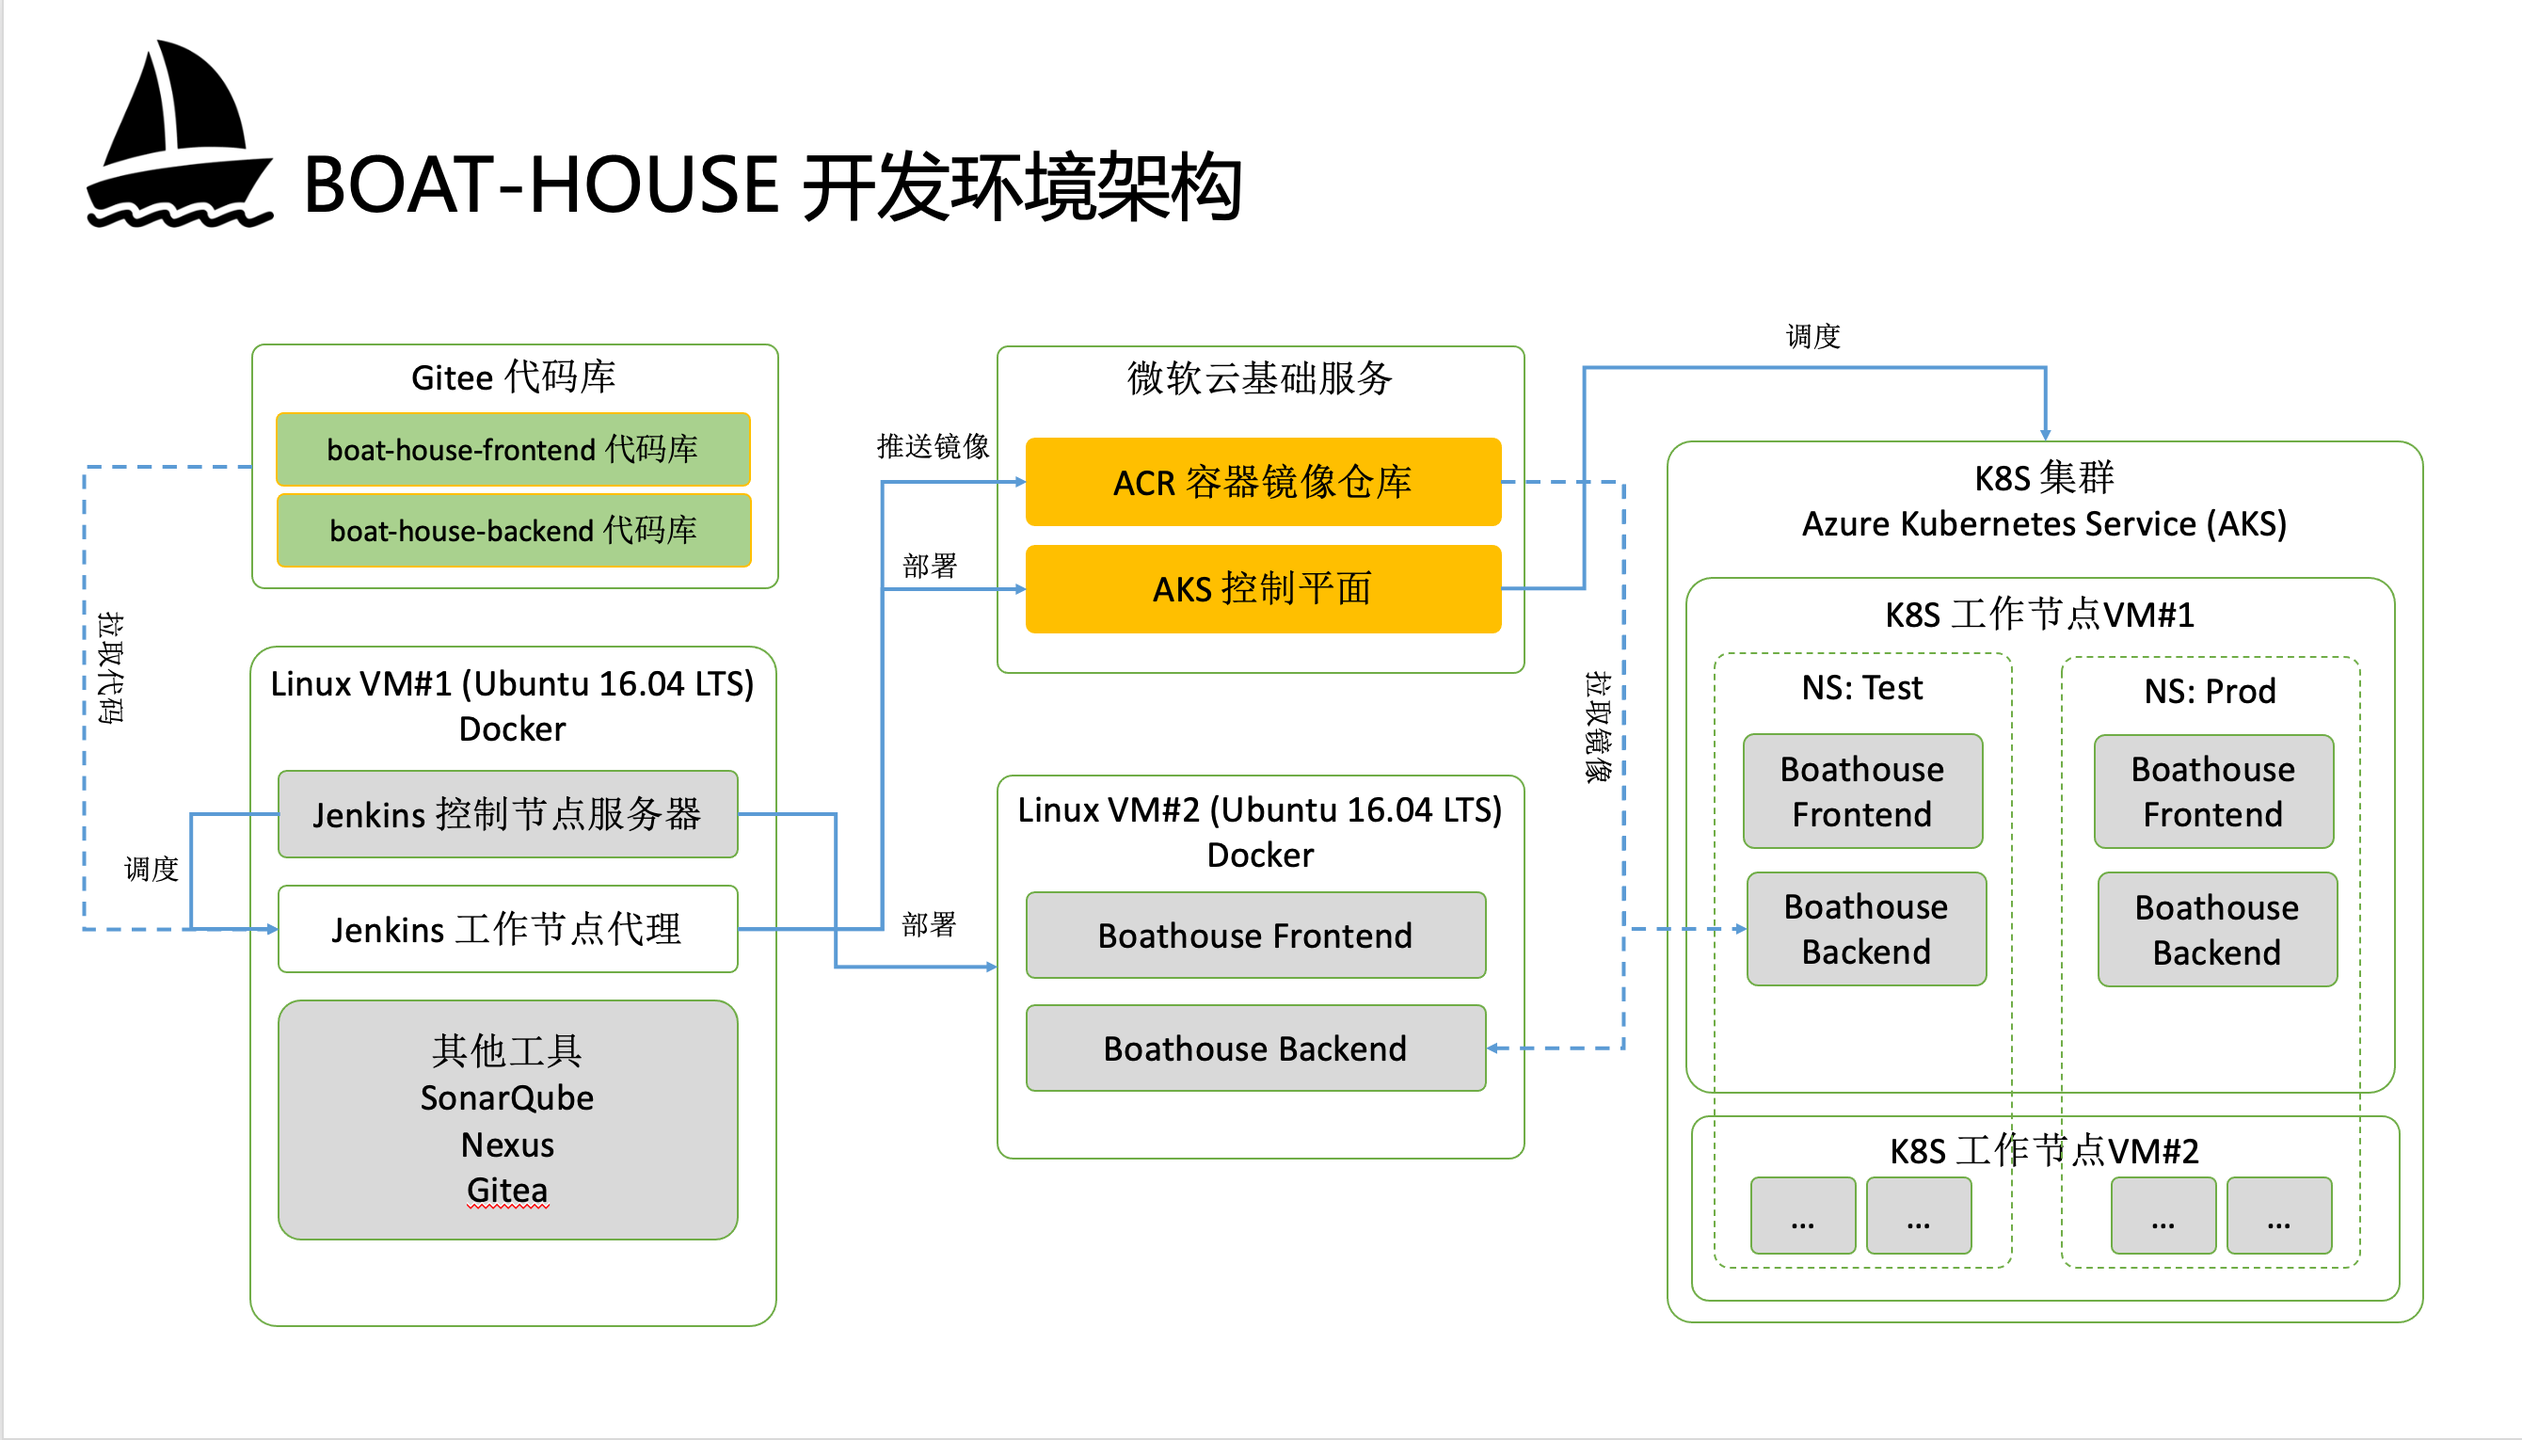
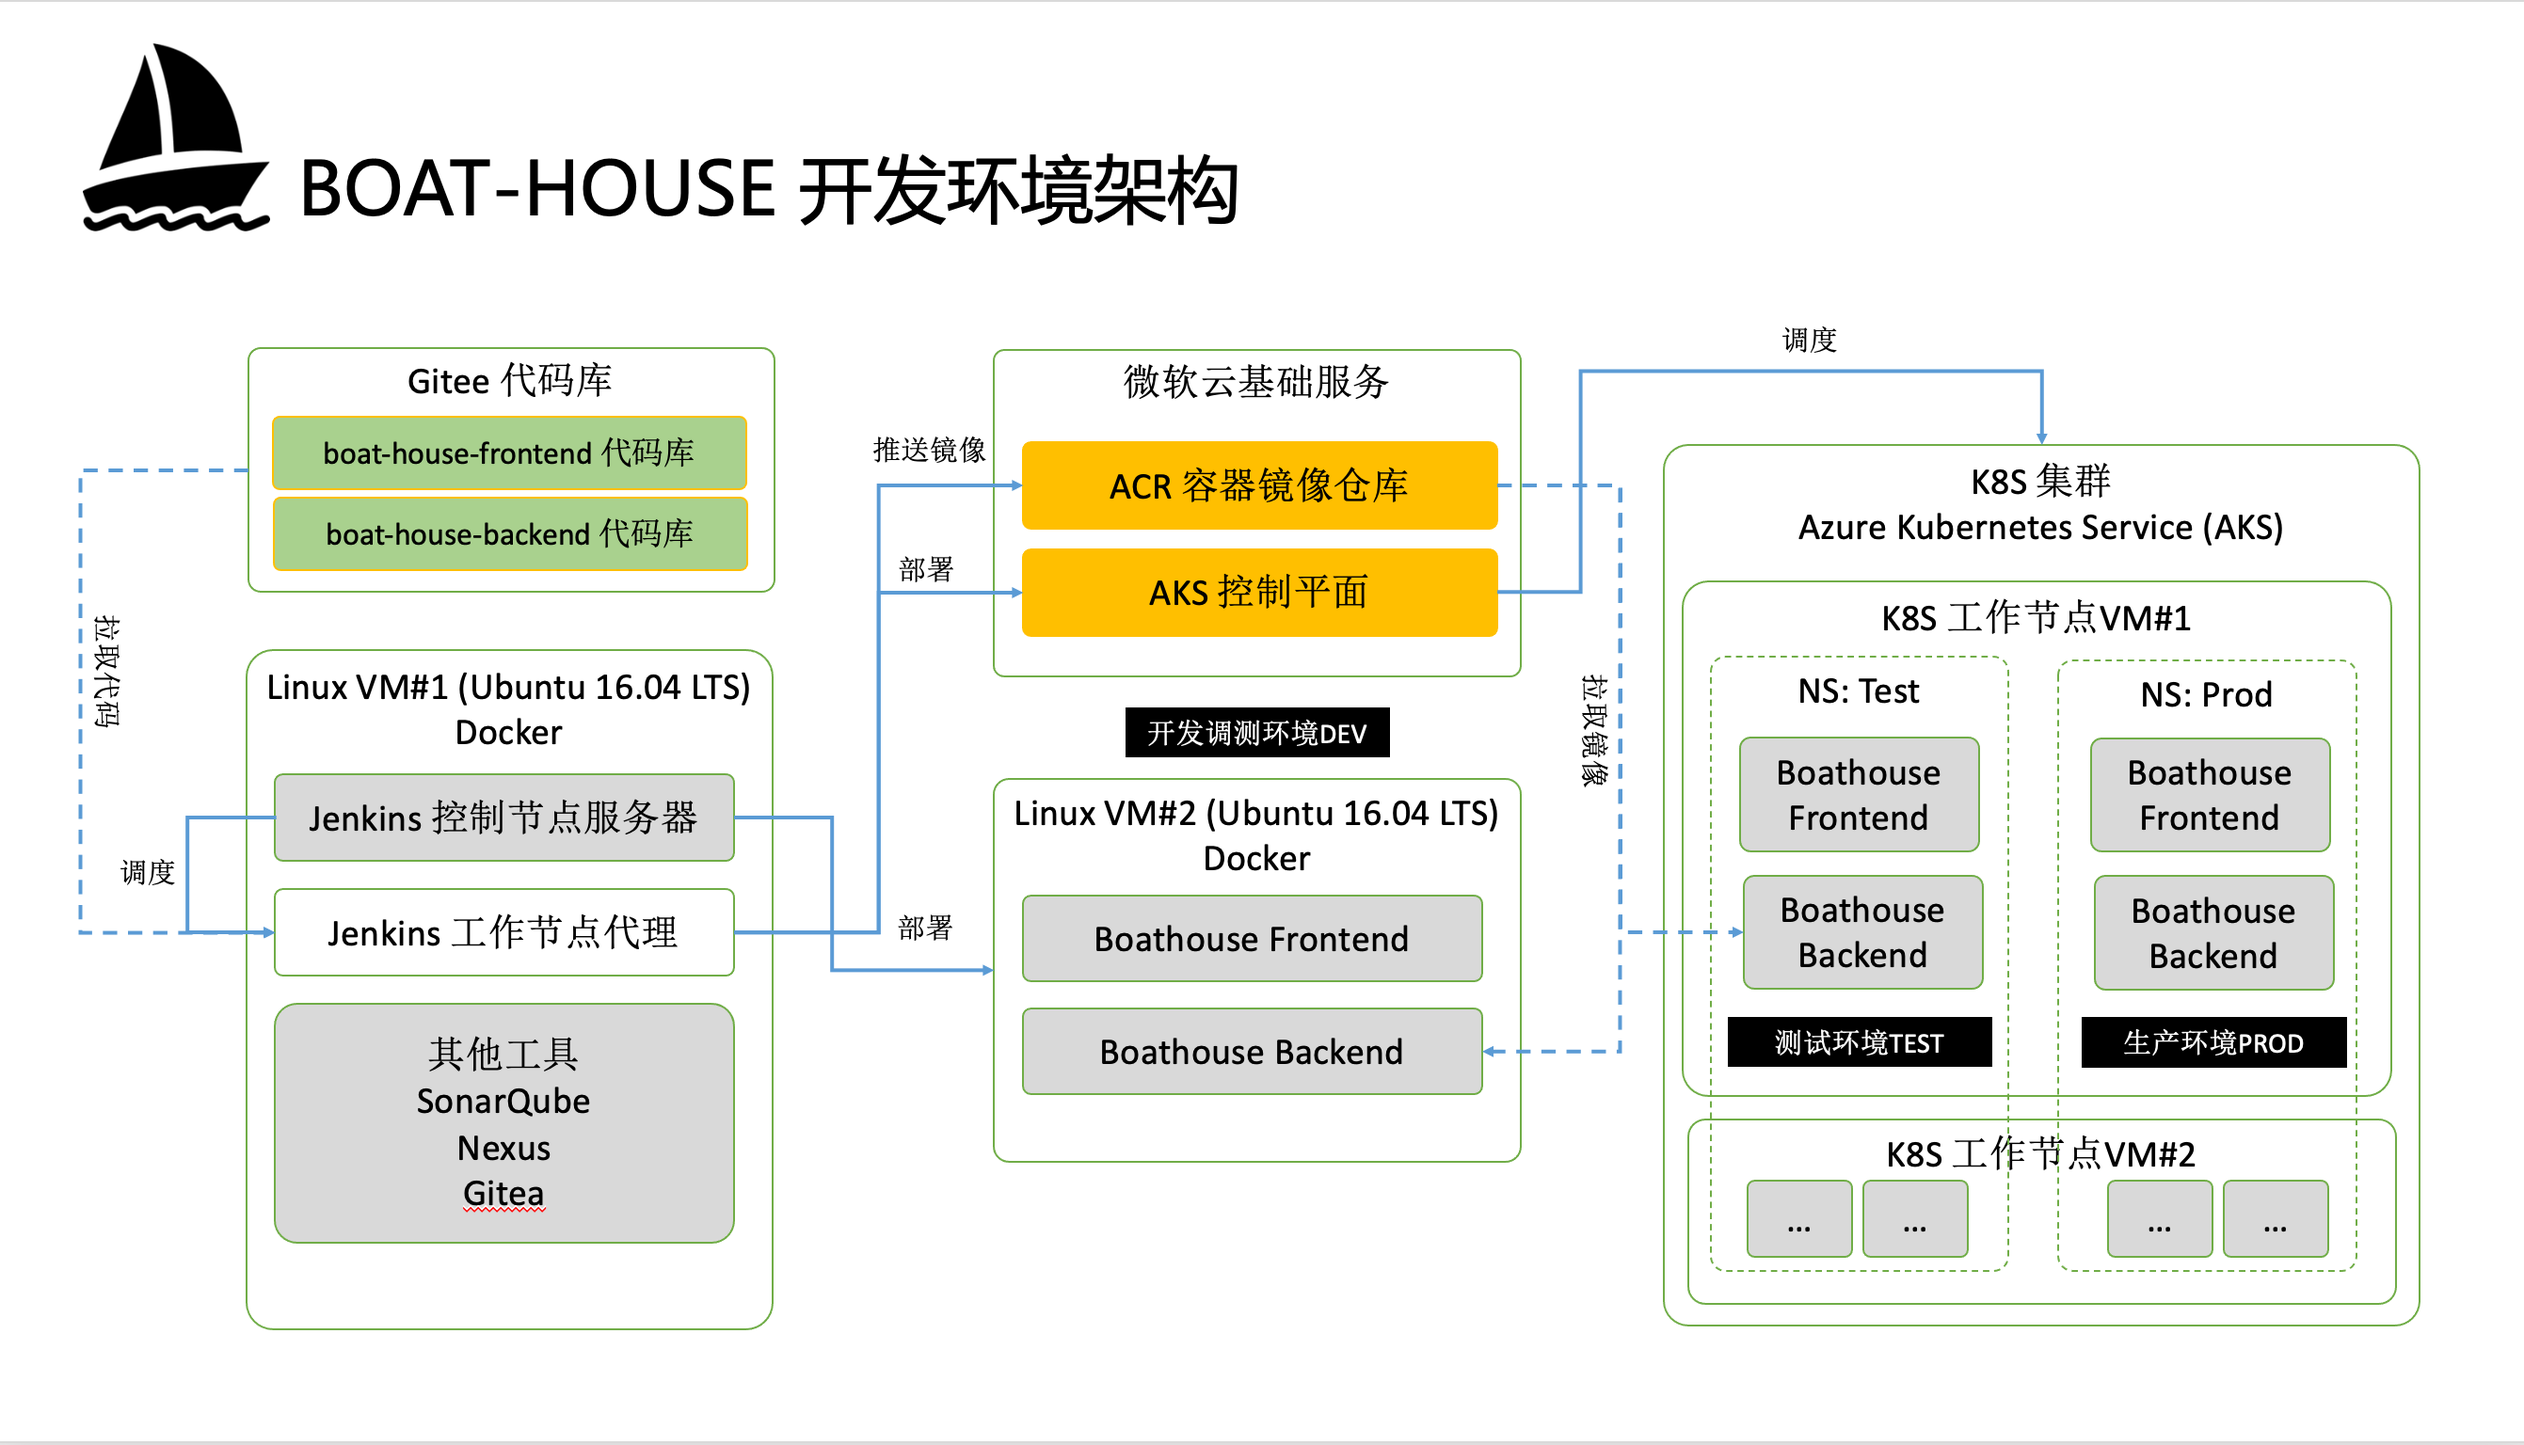
更新文档

diff --git a/docs/workshops/hackathon/README-cloudwise.md b/docs/workshops/hackathon/README-cloudwise.md
@@ -1,0 +1,52 @@
+# IDCF DevOps 黑马马拉松操作手册 (云智慧版)
+
+## 1. 环境概述
+
+为了能让团队更好的进行开发调试包括对整个DevOps工具链进行搭建以及测试，我们为每个团队提供了以下配套环境
+
+![Boathouse Environment](images/boathouse-env-architecture.png)
+
+基础设施环境说明：
+
+- 2台 Linux 虚拟机（团队自行分配2台VM的用途）
+  - VM#1: VM-Tools（用于搭建工具链） （CPU: 2 Core MEM: 8G）
+  - VM#2: VM-Dev（用于搭建测试环境） （CPU: 2 Core MEM: 4G）
+- 1个 容器镜像仓库 （使用微软Azure云的Azure Container Registry)
+- 1个 k8s 集群（使用微软Azure云的Azure Kubernetes Services）
+  - k8s 总会通过 命名空间（NS）划分成 Test/Prod 两个环境
+
+应用环境说明：
+- 开发调测环境（DEV）：使用docker单机环境，代码提交后，通过流水线自动完成部署
+- 测试环境（TEST）：使用k8s集群中的Namespace环境，DEV环境部署通过后，由测试团队批准对TEST环境的部署
+- 生产环境（PROD）：使用k8s集群中的Namespace环境，TEST环境部署通过后，由测试团队完成测试并提交测试报告，产品团队确认后，批准对PROD环境的部署
+
+
+### 获取团队云资源
+
+云智慧所使用的流水线基础环境已经搭建完毕，各团队可以直接申请加入对应的Gitee组织即可开始提交代码，并通过流水线完成自动化部署。
+
+**注意：每一个团队只有一套环境! 大家注意做好分工。**
+
+## 2. 基础流水线
+
+各团队需要提交开发团队成员的Gitee账号给到讲师，讲师为每个团队成员完成组织授权后，小组成员即可开始使用Gitee组织下的代码库。
+
+![Gitee Org](images/gitee-org.png)
+
+请按照以下快速开发指南完成前后端代码的本地调试，并在前端Client应用的菜单中增加一个选项，通过流水线自动部署到DEV环境。
+
+- [快速开发指南](dev-guide.md)：搭建本地开发环境，完成Boathouse前后端代码的联调。
+
+## 3. 增强型流水线
+
+### 3.1 加分项 - 团队 K8s 环境（Test & Prod）部署
+
+- [使用流水线完成Test/Prod环境的自动化部署](team-k8s-env-config.md)：按照此文档完成K8s环境中的 TEST 和 PROD 两个环境的部署。
+
+### 3.2 加分项 - 高级流水线组件
+
+- 完成本链接中（工具指导文档）中的任意配置，团队可以获得额外加分 [Boathouse工具链指导文档列表](../../../README.md?id=工具指导文档)
+
+## 小结
+
+本文档描述了IDCF DevOps 黑客马拉松的流水线搭建过程。

diff --git a/README.md b/README.md
@@ -10,10 +10,9 @@
 ## 培训及操作手册
 
 * [IDCF DevOps黑客马拉松操作手册](docs/workshops/hackathon/README.md)
+* [IDCF DevOps黑客马拉松操作手册（云智慧版）](docs/workshops/hackathon/README-cloudwise.md)
 * [IDCF BoatHouse DevOps 实战训练营(开源版)](docs/workshops/boathouse-e2e-opensource/README.md)
 
-**boathouse 二期共创**
-目前筹备中。。。
 
 **boathouse 一期共创**
 * [项目组成员](docs/quick-start/operation/team-member.md)
